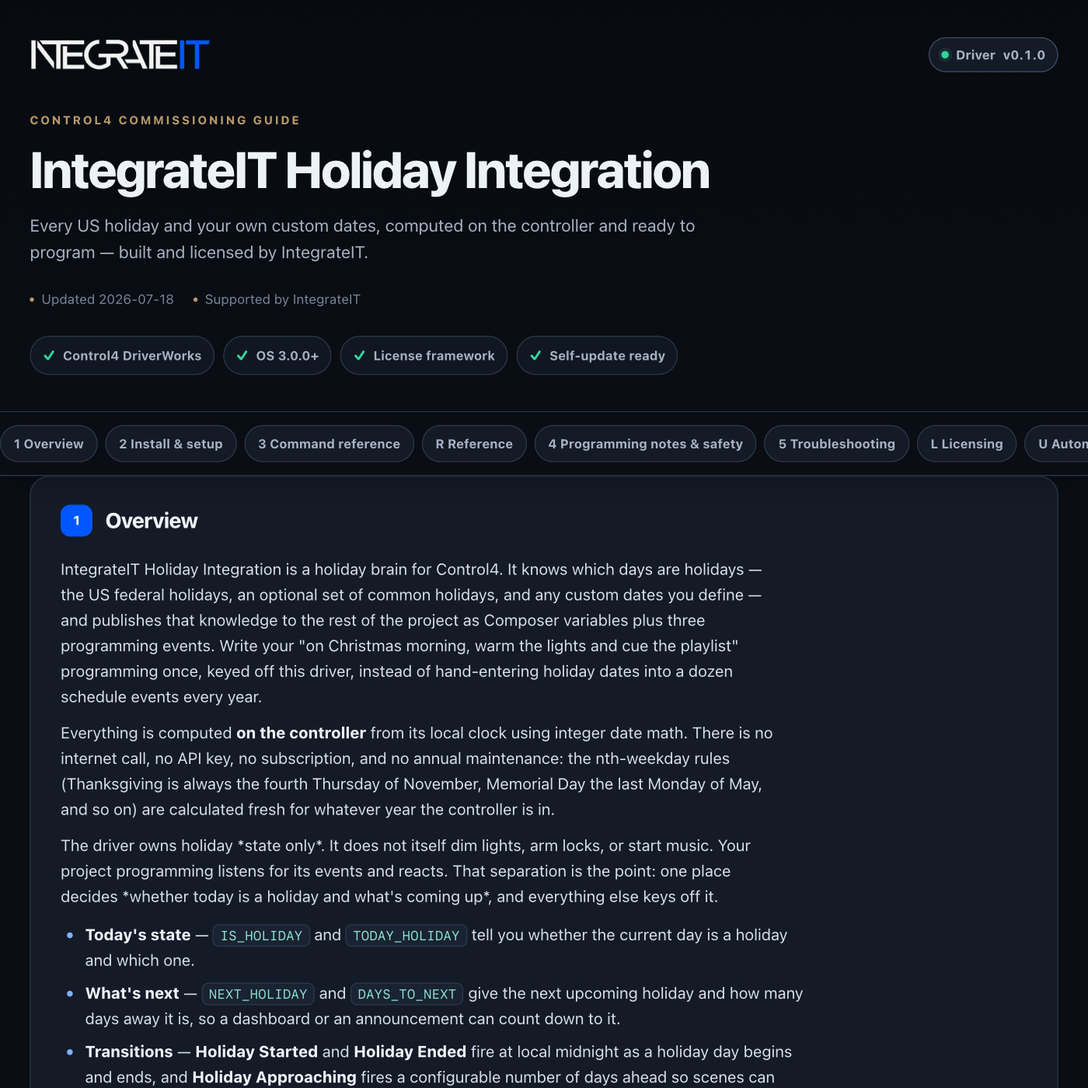
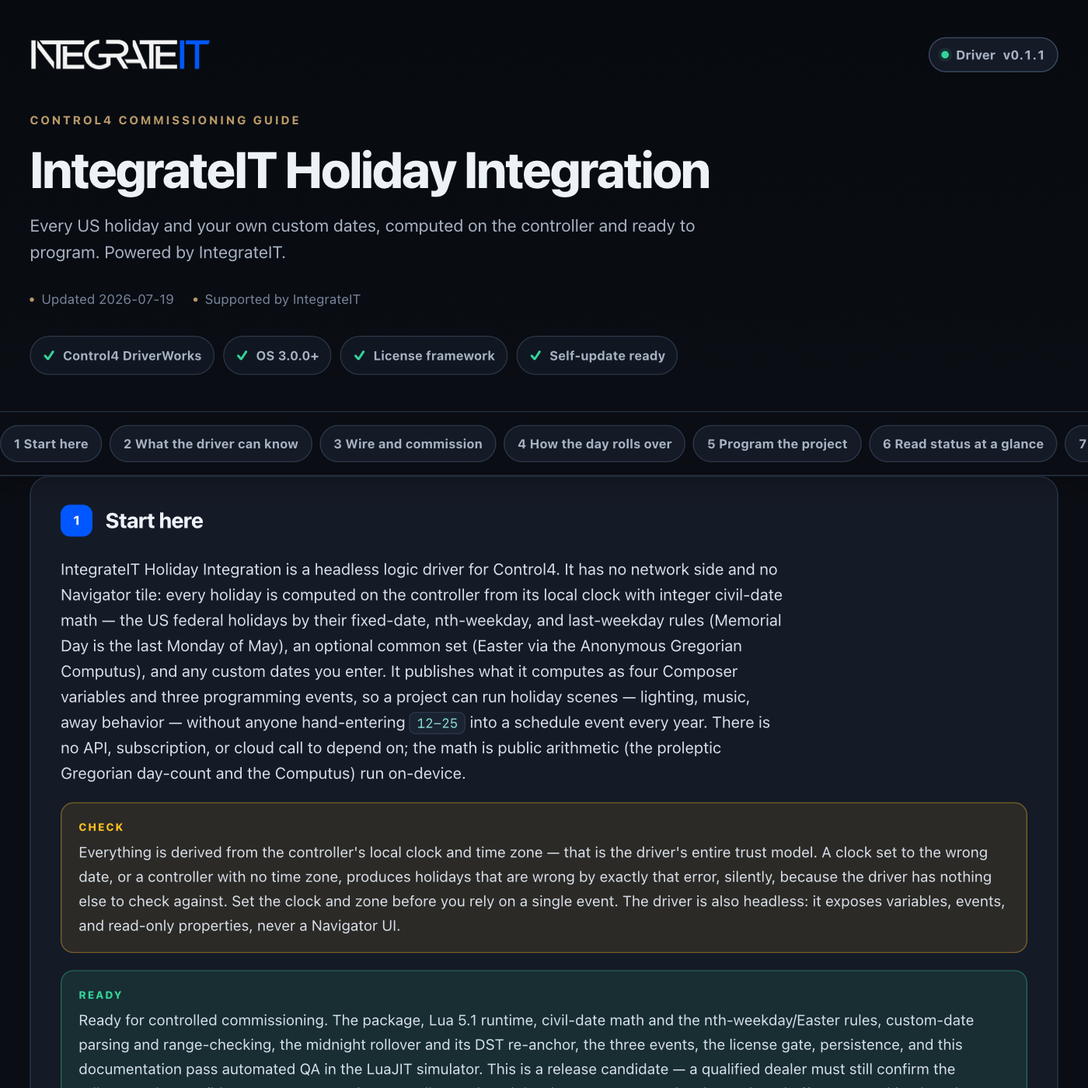
control4: publish driver channel (integrateit_holiday_integration 0.1.2)

diff --git a/control4/integrateit_holiday_integration/documentation.html b/control4/integrateit_holiday_integration/documentation.html
@@ -179,13 +179,13 @@ td code{white-space:normal}
     <div class="wrap">
       <div class="brandbar">
[1 lines of base64/hex data omitted]
-        <span class="version"><span class="word">Driver</span> v0.1.1</span>
+        <span class="version"><span class="word">Driver</span> v0.1.2</span>
       </div>
       <p class="eyebrow">Control4 commissioning guide</p>
       <h1>IntegrateIT Holiday Integration</h1>
-      <p class="sub">Every US holiday and your own custom dates, computed on the controller and ready to program — built and licensed by IntegrateIT.</p>
+      <p class="sub">Every US holiday and your own custom dates, computed on the controller and ready to program. Powered by IntegrateIT.</p>
       <div class="meta">
-        <span>Updated 2026-07-19</span>
+        <span>Updated 2026-07-26</span>
         <span>Supported by IntegrateIT</span>
       </div>
       <div class="readiness" aria-label="Driver capabilities">
@@ -198,61 +198,122 @@ td code{white-space:normal}
   </header>
 
   <div class="toc-wrap">
-    <nav class="toc wrap" aria-label="Documentation sections"><a href="#overview">1 Overview</a><a href="#install">2 Install &amp; setup</a><a href="#commands">3 Command reference</a><a href="#reference">R Reference</a><a href="#safety">4 Programming notes &amp; safety</a><a href="#troubleshooting">5 Troubleshooting</a><a href="#licensing">L Licensing</a><a href="#updates">U Automatic updates</a><a href="#changelog">V Version history</a></nav>
+    <nav class="toc wrap" aria-label="Documentation sections"><a href="#overview">1 Start here</a><a href="#knows">2 What the driver can know</a><a href="#setup">3 Wire and commission</a><a href="#rollover">4 How the day rolls over</a><a href="#programming">5 Program the project</a><a href="#status">6 Read status at a glance</a><a href="#troubleshooting">7 Troubleshoot methodically</a><a href="#trust">8 Ownership, privacy, and licensing</a><a href="#reference">R Reference</a><a href="#licensing">L Licensing</a><a href="#updates">U Automatic updates</a><a href="#changelog">V Version history</a></nav>
   </div>
 
   <main class="wrap">
     <section class="card" id="overview" data-card="overview">
-  <h2><span class="n">1</span> Overview</h2>
-  <p>IntegrateIT Holiday Integration is a holiday brain for Control4. It knows which days are holidays — the US federal holidays, an optional set of common holidays, and any custom dates you define — and publishes that knowledge to the rest of the project as Composer variables plus three programming events. Write your "on Christmas morning, warm the lights and cue the playlist" programming once, keyed off this driver, instead of hand-entering holiday dates into a dozen schedule events every year.</p>
-  <p>Everything is computed <b>on the controller</b> from its local clock using integer date math. There is no internet call, no API key, no subscription, and no annual maintenance: the nth-weekday rules (Thanksgiving is always the fourth Thursday of November, Memorial Day the last Monday of May, and so on) are calculated fresh for whatever year the controller is in.</p>
-  <p>The driver owns holiday *state only*. It does not itself dim lights, arm locks, or start music. Your project programming listens for its events and reacts. That separation is the point: one place decides *whether today is a holiday and what's coming up*, and everything else keys off it.</p>
+  <h2><span class="n">1</span> Start here</h2>
+  <p>IntegrateIT Holiday Integration is a headless logic driver for Control4. It has no network side and no Navigator tile: every holiday is computed on the controller from its local clock with integer civil-date math — the US federal holidays by their fixed-date, nth-weekday, and last-weekday rules (Memorial Day is the last Monday of May), an optional common set (Easter via the Anonymous Gregorian Computus), and any custom dates you enter. It publishes what it computes as four Composer variables and three programming events, so a project can run holiday scenes — lighting, music, away behavior — without anyone hand-entering <code>12-25</code> into a schedule event every year. There is no API, subscription, or cloud call to depend on; the math is public arithmetic (the proleptic Gregorian day-count and the Computus) run on-device.</p>
+  <div class="note warn">Everything is derived from the controller's local clock and time zone — that is the driver's entire trust model. A clock set to the wrong date, or a controller with no time zone, produces holidays that are wrong by exactly that error, silently, because the driver has nothing else to check against. Set the clock and zone before you rely on a single event. The driver is also headless: it exposes variables, events, and read-only properties, never a Navigator UI.</div>
+  <div class="note good">Ready for controlled commissioning. The package, Lua 5.1 runtime, civil-date math and the nth-weekday/Easter rules, custom-date parsing and range-checking, the midnight rollover and its DST re-anchor, the three events, the license gate, persistence, and this documentation pass automated QA in the LuaJIT simulator. This is a release candidate — a qualified dealer must still confirm the rollover and event firing on a representative controller. No bench hardware acceptance has been signed off yet, so nothing here is bench-tested.</div>
+  <p><b>What you get</b></p>
   <ul>
-    <li><b>Today's state</b> — <code>IS_HOLIDAY</code> and <code>TODAY_HOLIDAY</code> tell you whether the current day is a holiday and which one.</li>
-    <li><b>What's next</b> — <code>NEXT_HOLIDAY</code> and <code>DAYS_TO_NEXT</code> give the next upcoming holiday and how many days away it is, so a dashboard or an announcement can count down to it.</li>
-    <li><b>Transitions</b> — <b>Holiday Started</b> and <b>Holiday Ended</b> fire at local midnight as a holiday day begins and ends, and <b>Holiday Approaching</b> fires a configurable number of days ahead so scenes can pre-stage.</li>
+    <li>US federal holidays computed on-device by their real rules — New Year's Day, Martin Luther King Jr. Day, Presidents' Day, Memorial Day, Juneteenth, Independence Day, Labor Day, Columbus Day, Veterans Day, Thanksgiving Day, and Christmas Day</li>
+    <li>An optional common set that adds Valentine's Day, St. Patrick's Day, Easter Sunday, Halloween, Christmas Eve, and New Year's Eve</li>
+    <li>Dealer custom dates: recurring <code>MM-DD</code> or one-off <code>YYYY-MM-DD</code> with your own labels; a custom label wins a same-day collision with a built-in</li>
+    <li><code>IS_HOLIDAY</code>, <code>TODAY_HOLIDAY</code>, <code>NEXT_HOLIDAY</code>, and <code>DAYS_TO_NEXT</code> variables for programming and dashboards</li>
+    <li><b>Holiday Started</b> and <b>Holiday Ended</b> events at local midnight as each holiday day begins and ends</li>
+    <li><b>Holiday Approaching</b> a configurable number of days ahead so scenes can pre-stage</li>
+    <li>A DST-safe midnight rollover that re-reads the clock on every fire, and MAC-locked IntegrateIT licensing</li>
   </ul>
-  <p>This driver covers US civil/federal and common holidays plus your own dates. For the Jewish calendar (Shabbat, Yom Tov, candle lighting), use the companion <b>IntegrateIT Hebcal</b> driver instead.</p>
 </section>
 
-<section class="card" id="install" data-card="install">
-  <h2><span class="n">2</span> Install &amp; setup</h2>
+<section class="card" id="knows" data-card="knows">
+  <h2><span class="n">2</span> What the driver can know</h2>
+  <p>This driver never asserts a holiday it cannot derive. Its only input is the controller's local clock; from that one civil date it computes every holiday arithmetically, so the same calendar day maps to the same result on every controller. That determinism also fixes the boundary of what it can and cannot know:</p>
+  <ul>
+    <li><b>The clock is the only source of truth.</b> There is no calendar feed to cross-check. If the controller's date or time zone is wrong, "today is a holiday" is wrong by the same amount and nothing in the driver can tell — it has nothing else to compare against.</li>
+    <li><b>Scope is US civil.</b> It covers the US federal set, the optional common set, and your custom dates — nothing else. It is not a religious or international calendar. For the Jewish calendar (Shabbat, Yom Tov, candle lighting) use the companion <b>IntegrateIT Hebcal</b> driver instead.</li>
+    <li><b>Your dates win.</b> Custom dates are registered before the built-ins, so a custom label takes a day a built-in also lands on. A recurring <code>MM-DD</code> is validated against each year's real month length: <code>02-29</code> appears only in leap years, and an impossible date like <code>02-30</code> or <code>13-45</code> is rejected and logged — never silently normalized into a phantom day. Turn on <b>Debug Mode → Print</b> to see the skips.</li>
+    <li><b>State is re-derived, never restored from disk.</b> A diagnostic snapshot of the last computed day is written to persistence, but on every boot the driver re-reads the wall clock and rebuilds the whole set from scratch. It never trusts the saved value for "today" — anything claiming a holiday after a reboot re-earned it from the clock.</li>
+  </ul>
+</section>
+
+<section class="card" id="setup" data-card="setup">
+  <h2><span class="n">3</span> Wire and commission</h2>
   <ol class="steps">
-    <li>Add <b>IntegrateIT Holiday Integration</b> to the project (a Comm/room the programming can reach). It has no Navigator UI of its own.</li>
-    <li>Confirm the controller's <b>date, time, and time zone</b> are correct. Every holiday is derived from the local clock, so a wrong clock yields wrong holidays.</li>
-    <li>In <b>Properties</b>, choose a <b>Holiday Set</b>: - <b>US Federal</b> — New Year's Day, Martin Luther King Jr. Day, Presidents' Day, Memorial Day, Juneteenth, Independence Day, Labor Day, Columbus Day, Veterans Day, Thanksgiving Day, and Christmas Day. - <b>US Federal + Common</b> (default) — everything above plus Valentine's Day, St. Patrick's Day, Easter Sunday, Halloween, Christmas Eve, and New Year's Eve.</li>
-    <li>(Optional) Add <b>Custom Dates</b> as a comma-separated list. Each entry is <code>date:Label</code>: - <code>MM-DD:Label</code> repeats every year — e.g. <code>04-22:Company Anniversary</code>. - <code>YYYY-MM-DD:Label</code> is one specific date — e.g. <code>2026-09-05:Open House</code>. - A custom label wins if it falls on the same day as a built-in holiday.</li>
-    <li>Set <b>Approach Notice (days)</b> — how many days before a holiday the <b>Holiday Approaching</b> event fires (0–30, default 3). Set it to <code>0</code> to disable that event.</li>
-    <li>Optionally enter a <b>License Key</b> (see Licensing) — the driver runs in Lenient mode without one.</li>
+    <li>Add <b>IntegrateIT Holiday Integration</b> to the project (any room or Comm the programming can reach). It has no Navigator UI of its own.</li>
+    <li>Confirm the controller's <b>date, time, and time zone</b> are correct before anything else — every holiday is derived from them.</li>
+    <li>In <b>Properties</b>, choose a <b>Holiday Set</b>: <b>US Federal</b> (the eleven federal holidays) or <b>US Federal + Common</b> (default — adds Valentine's Day, St. Patrick's Day, Easter Sunday, Halloween, Christmas Eve, and New Year's Eve).</li>
+    <li>(Optional) Enter <b>Custom Dates</b> as a comma-separated list of <code>date:Label</code> entries — <code>MM-DD:Label</code> repeats every year (<code>04-22:Company Anniversary</code>), <code>YYYY-MM-DD:Label</code> is one specific date (<code>2026-09-05:Open House</code>).</li>
+    <li>Set <b>Approach Notice (days)</b> (0–30, default 3) — how many days ahead <b>Holiday Approaching</b> fires at local midnight. Set it to <code>0</code> to disable that event.</li>
+    <li>Leave <b>License Enforcement</b> at Lenient to commission without a key, or enter a <b>License Key</b> and switch to Strict for production (see Ownership below).</li>
+    <li>Prove it: run the <b>Print Holidays</b> action and read the Lua output window — the active set and the upcoming dates print with their weekdays. Confirm the <b>Next Holiday</b> property names the right upcoming holiday. To see a same-day hit, add a custom date on today and watch <code>IS_HOLIDAY</code> flip to <code>1</code> and <code>TODAY_HOLIDAY</code> take the label.</li>
   </ol>
 </section>
 
-<section class="card" id="commands" data-card="commands">
-  <h2><span class="n">3</span> Command reference</h2>
-  <p>Both of the following are Composer <b>Actions</b>. Each is gated by the license: under Strict enforcement without a valid key they are silently ignored. Neither is destructive — they only recompute and report.</p>
-  <table>
-    <tr><th>Action</th><th>Command</th><th>Effect</th></tr>
-    <tr><td><code>Recompute</code></td><td><code>RECOMPUTE</code></td><td>Re-read the controller clock, rebuild the holiday set, refresh every variable and property, and realign the midnight rollover — all now. It re-anchors "today" from the current clock, so it is the correct remedy after you fix a wrong date/time/zone, and it is handy after editing Custom Dates.</td></tr>
-    <tr><td><code>Print Holidays</code></td><td><code>PRINT_HOLIDAYS</code></td><td>Print the active holiday set and the upcoming holidays (with dates and weekdays) to the Lua output window.</td></tr>
-  </table>
-  <p><b>Events</b> to program against:</p>
+<section class="card" id="rollover" data-card="rollover">
+  <h2><span class="n">4</span> How the day rolls over</h2>
+  <p>The driver reads the wall clock once at boot to learn today's civil day-number and the delay to the next local midnight, then lets a single one-shot timer do the waiting — it never polls in a loop asking whether midnight has arrived yet. When that timer fires it advances its internal day by one, re-derives every surface, fires the day-transition events, and re-reads the clock to schedule the following midnight.</p>
   <ul>
-    <li><b>Holiday Started</b> (id 12) — fires at local midnight as a holiday day begins. Read <code>TODAY_HOLIDAY</code> inside the event to branch (e.g. "if today is Independence Day, run the Fourth of July scene").</li>
-    <li><b>Holiday Ended</b> (id 13) — fires at local midnight as a holiday day ends, so you can undo a holiday scene the next morning.</li>
-    <li><b>Holiday Approaching</b> (id 14) — fires at local midnight when the <b>next (nearest) upcoming holiday</b> is exactly <b>Approach Notice (days)</b> away. It tracks only the nearest holiday: if a closer holiday sits inside the notice window, a farther holiday landing on the same window boundary is not separately announced. Use it to pre-stage: order flowers, warm a guest room, post a countdown.</li>
+    <li><b>Boot publishes, it does not fire.</b> The first derivation at boot sets the variables and properties but fires no <b>Holiday Started / Ended / Approaching</b> — those belong to real midnight rollovers, so a controller reboot never replays a day's events.</li>
+    <li><b>Rollovers self-correct across DST.</b> Because the next-midnight delay is recomputed from the clock on every fire, a 23-hour or 25-hour civil day at a DST boundary lands the rollover on real local midnight instead of drifting an hour on a flat 24-hour re-arm.</li>
+    <li><b>Once per day.</b> Each holiday is evaluated at its local midnight, not re-checked within the day. A single-day holiday fires <b>Holiday Started</b> at its own midnight and <b>Holiday Ended</b> at the next.</li>
+    <li><b>Editing a property re-derives silently.</b> Changing <b>Holiday Set</b>, <b>Custom Dates</b>, or <b>Approach Notice (days)</b> recomputes the variables and properties immediately but fires no transition events. <b>Recompute</b> goes further — it re-reads the clock and re-anchors "today," which is the correct remedy after you fix a wrong date, time, or zone.</li>
   </ul>
-  <p><b>Variables</b> exposed for programming and dashboards:</p>
+</section>
+
+<section class="card" id="programming" data-card="programming">
+  <h2><span class="n">5</span> Program the project</h2>
+  <table>
+    <tr><th>Event</th><th>id</th><th>Fires</th></tr>
+    <tr><td><b>Holiday Started</b></td><td>12</td><td>at local midnight as a holiday day begins</td></tr>
+    <tr><td><b>Holiday Ended</b></td><td>13</td><td>at local midnight as a holiday day ends</td></tr>
+    <tr><td><b>Holiday Approaching</b></td><td>14</td><td>at local midnight when the nearest upcoming holiday is exactly <b>Approach Notice (days)</b> away</td></tr>
+  </table>
   <table>
     <tr><th>Variable</th><th>Type</th><th>Meaning</th></tr>
-    <tr><td><code>IS_HOLIDAY</code></td><td>BOOL</td><td>1 when today is a holiday, 0 otherwise.</td></tr>
-    <tr><td><code>TODAY_HOLIDAY</code></td><td>STRING</td><td>Today's holiday name, or <code>None</code>.</td></tr>
-    <tr><td><code>NEXT_HOLIDAY</code></td><td>STRING</td><td>The next upcoming holiday's name, or <code>None</code>.</td></tr>
-    <tr><td><code>DAYS_TO_NEXT</code></td><td>NUMBER</td><td>Whole days from today until the next holiday.</td></tr>
+    <tr><td><code>IS_HOLIDAY</code></td><td>BOOL</td><td><code>1</code> when today is a holiday, <code>0</code> otherwise</td></tr>
+    <tr><td><code>TODAY_HOLIDAY</code></td><td>STRING</td><td>today's holiday name, or <code>None</code></td></tr>
+    <tr><td><code>NEXT_HOLIDAY</code></td><td>STRING</td><td>the next upcoming holiday's name, or <code>None</code></td></tr>
+    <tr><td><code>DAYS_TO_NEXT</code></td><td>NUMBER</td><td>whole days from today until the next holiday</td></tr>
   </table>
-  <p><code>Today Is Holiday</code> and <code>Next Holiday</code> are also published as read-only properties so you can see the live values in Composer.</p>
+  <ul>
+    <li><b>One program for every holiday.</b> In <b>Holiday Started</b>, read <code>TODAY_HOLIDAY</code> and branch on it — a single event covers all of them instead of a hand-dated schedule event per holiday. Undo the scene the next morning from <b>Holiday Ended</b>.</li>
+    <li><b>Pre-stage with lead time.</b> Set <b>Approach Notice (days)</b> to <code>5</code> and use <b>Holiday Approaching</b> to order flowers or warm a guest room ahead of the day.</li>
+    <li><b>Count down on a dashboard.</b> Show <code>NEXT_HOLIDAY</code> with <code>DAYS_TO_NEXT</code>, or the read-only <b>Next Holiday</b> property, so a touch screen can announce what is coming.</li>
+  </ul>
+  <div class="note"><b>Holiday Approaching</b> tracks only the nearest upcoming holiday. If a closer holiday sits inside the notice window, a farther one landing on the same boundary is not separately announced.</div>
+</section>
+
+<section class="card" id="status" data-card="status">
+  <h2><span class="n">6</span> Read status at a glance</h2>
+  <table>
+    <tr><th>Surface</th><th>Healthy value</th><th>What it means / what to do otherwise</th></tr>
+    <tr><td><code>Today Is Holiday</code></td><td>the holiday name, or <code>No</code></td><td>read-only mirror of today's state</td></tr>
+    <tr><td><code>Next Holiday</code></td><td><code>&lt;name&gt; — &lt;date&gt; (in N days)</code>, or <code>Unknown</code></td><td>the upcoming holiday and when; <code>Unknown</code> only before the first derivation</td></tr>
+    <tr><td><code>IS_HOLIDAY</code> / <code>TODAY_HOLIDAY</code></td><td>agree with <code>Today Is Holiday</code></td><td>the automation-safe pair to branch on</td></tr>
+    <tr><td><code>NEXT_HOLIDAY</code> / <code>DAYS_TO_NEXT</code></td><td>the next holiday and its countdown</td><td>drives dashboards and pre-staging</td></tr>
+    <tr><td><code>License Status</code></td><td>Activated, or Lenient during commissioning</td><td>enter a key before selecting Strict</td></tr>
+  </table>
+  <p>The device <b>Status</b> line reads <code>Today is &lt;holiday&gt;</code>, <code>Next: &lt;holiday&gt; in N days</code>, or <code>No holidays in range</code>. Run the <b>Print Holidays</b> action to dump the active set and the upcoming dates (with weekdays) to the Lua output window; it prints the driver version and the IntegrateIT identity and never prints the license key.</p>
+</section>
+
+<section class="card" id="troubleshooting" data-card="troubleshooting">
+  <h2><span class="n">7</span> Troubleshoot methodically</h2>
+  <table>
+    <tr><th>Symptom</th><th>Likely cause</th><th>Fix</th></tr>
+    <tr><td>Nothing ever reports a holiday; variables stay <code>None</code></td><td>The clock is far off, or the set has no near matches</td><td>Run <b>Print Holidays</b>; if the printed "Today" date is wrong, correct the controller date/time/zone and fire <b>Recompute</b></td></tr>
+    <tr><td>Holidays land on the wrong day</td><td>Controller clock or time zone is wrong</td><td>Correct the date/time/zone, then fire <b>Recompute</b> to re-anchor today</td></tr>
+    <tr><td>A custom date never triggers</td><td>Malformed or out-of-range <b>Custom Dates</b> entry</td><td>Use <code>MM-DD:Label</code> or <code>YYYY-MM-DD:Label</code>, comma-separated; turn on <b>Debug Mode → Print</b> and re-check — skips are logged; confirm with <b>Print Holidays</b></td></tr>
+    <tr><td><b>Holiday Approaching</b> never fires</td><td><b>Approach Notice (days)</b> is <code>0</code>, or a nearer holiday owns the window</td><td>Set it to <code>1</code>–<code>30</code>; remember only the nearest upcoming holiday is tracked</td></tr>
+    <tr><td>Easter or Valentine's missing</td><td><b>Holiday Set</b> is US Federal</td><td>Switch to <b>US Federal + Common</b></td></tr>
+    <tr><td><b>Recompute</b> / <b>Print Holidays</b> do nothing</td><td>Strict enforcement with no valid key</td><td>Check <code>License Status</code>; Lenient keeps them enabled — the holiday variables and events publish either way</td></tr>
+    <tr><td>Events replay after a reboot</td><td>They do not</td><td>Boot publishes state but fires no transition events by design</td></tr>
+  </table>
+  <div class="note">Turn on <b>Debug Mode → Print</b> to watch every derivation in the Lua output window, and run <b>Print Holidays</b> to dump the parsed set and the upcoming dates.</div>
+  <p>If holidays still compute wrong after the clock and zone are confirmed correct and <b>Recompute</b> has run, capture a <b>Print Holidays</b> dump with <b>Debug Mode → Print</b> on and contact IntegrateIT support at support@integrateit.tech · (913) 804-7575.</p>
+</section>
+
+<section class="card" id="trust" data-card="trust">
+  <h2><span class="n">8</span> Ownership, privacy, and licensing</h2>
+  <p>This package is an original IntegrateIT implementation — an on-device holiday engine built on standard civil-date arithmetic (the proleptic Gregorian day-count and the Anonymous Gregorian Computus for Easter, both public algorithms). It bundles no other vendor's runtime, source code, brand assets, trial system, or license. Driver engineering, Control4 integration, documentation, QA, licensing, updates, and support are provided by IntegrateIT.</p>
+  <p>The holiday engine sends nothing anywhere: it reads only the controller's local clock and writes only Composer variables, events, and its own properties — no network call, no calendar feed, and no customer data leaves the controller. The shared IntegrateIT license and update services use the controller identity, driver slug, version, configured license key, and update channel as documented in the reference below; the license key is never logged or printed.</p>
+  <p>Lenient mode (the default) allows commissioning without an activated key and keeps <code>License Status</code> visible. Strict mode blocks the two manual Actions — <b>Recompute</b> and <b>Print Holidays</b> — until the Ops Portal has minted and validated a MAC-locked key for that controller; the holiday variables and events keep publishing regardless, because deriving the calendar is not a licensed operation. Installing this package does not itself mint or activate a controller license.</p>
 <section class="card" id="reference" data-card="reference">
   <h2><span class="n">R</span> Reference</h2>
-  <p>Generated from the driver manifest at build time — always matches this build (v0.1.1).</p>
+  <p>Generated from the driver manifest at build time — always matches this build (v0.1.2).</p>
   <h3>Properties</h3>
   <table>
     <tr><th>Property</th><th>Type</th><th>Default</th><th>Description</th></tr>
@@ -296,31 +357,6 @@ td code{white-space:normal}
     <tr><td>1002</td><td>License Problem <span class="pill blue">shared</span></td><td>License key invalid, revoked, or bound to a different controller</td></tr>
   </table>
 </section>
-</section>
-
-<section class="card" id="safety" data-card="safety">
-  <h2><span class="n">4</span> Programming notes &amp; safety</h2>
-  <p>This driver is a state holder, not an actuator — it never moves a physical device on its own, so there is no hardware-safety hazard in commissioning it. The discipline that matters here is <b>programming and clock hygiene</b>:</p>
-  <ul>
-    <li><b>Key scenes off the events, not off hand-entered dates.</b> Let this driver be the single source of holiday truth; a schedule event that hard-codes <code>12-25</code> will drift and forget leap-year and nth-weekday shifts.</li>
-    <li><b>Decide Started vs. Approaching deliberately.</b> *Holiday Started* fires at midnight the holiday *begins* — good for same-day scenes. *Holiday Approaching* fires ahead of time — good for anything that needs lead time. Many projects use both.</li>
-    <li><b>Mind the controller clock and time zone.</b> All holiday math is local. If the controller's clock is wrong, or its time zone is unset, the holidays will be off by the same amount. After any clock change, fire <b>Recompute</b>.</li>
-    <li><b>Editing Custom Dates is a commissioning action.</b> Changing the set re-derives the surfaces immediately but does *not* fire transition events (those belong to real midnight rollovers). Edit when you can confirm the resulting state, then run <b>Print Holidays</b> to review.</li>
-    <li><b>The count is once per day.</b> The driver evaluates at each local midnight; it does not re-fire within a day. A holiday that lasts a single calendar day fires *Holiday Started* at its midnight and *Holiday Ended* at the following midnight.</li>
-  </ul>
-</section>
-
-<section class="card" id="troubleshooting" data-card="troubleshooting">
-  <h2><span class="n">5</span> Troubleshooting</h2>
-  <table>
-    <tr><th>Symptom</th><th>Likely cause</th><th>Fix</th></tr>
-    <tr><td>Holidays are on the wrong day</td><td>Controller clock or time zone is wrong</td><td>Correct the controller date/time/zone, then fire <code>Recompute</code>.</td></tr>
-    <tr><td>A custom date never triggers</td><td>Malformed <code>Custom Dates</code> entry</td><td>Use <code>MM-DD:Label</code> or <code>YYYY-MM-DD:Label</code>, comma-separated; check <code>Print Holidays</code> to confirm it parsed.</td></tr>
-    <tr><td>Approaching event never fires</td><td><code>Approach Notice (days)</code> is 0</td><td>Set it to the number of days of lead time you want (1–30).</td></tr>
-    <tr><td>Actions do nothing</td><td>Strict enforcement + unlicensed</td><td>Check <code>License Status</code>; Lenient mode keeps control enabled without a key.</td></tr>
-    <tr><td>Easter / Valentine's missing</td><td><code>Holiday Set</code> is US Federal</td><td>Switch to <code>US Federal + Common</code> to include the common holidays.</td></tr>
-  </table>
-  <div class="note">Turn on <code>Debug Mode → Print</code> to watch every call in the Lua output window, and run <code>Print Holidays</code> to dump the parsed set and the upcoming dates.</div>
 </section>
 <section class="card" id="licensing" data-card="licensing">
   <h2><span class="n">L</span> Licensing</h2>
@@ -369,7 +405,9 @@ td code{white-space:normal}
     <section class="card" id="changelog" data-card="changelog">
   <h2><span class="n">V</span> Version history</h2>
   <div class="chg">
-    <div class="rel"><b>v0.1.1</b> <span class="pill green">current</span><span class="d">2026-07-19</span>
+    <div class="rel"><b>v0.1.2</b> <span class="pill green">current</span><span class="d">2026-07-26</span>
+      <ul><li>Documentation rebuilt to the IntegrateIT commissioning-guide standard: uniform sections, honest contracts, verified claim-by-claim against the code.</li></ul></div>
+    <div class="rel"><b>v0.1.1</b><span class="d">2026-07-19</span>
       <ul><li>Hardware-test-worthy polish: correctness, edge-case, timer-hygiene and hardware-readiness fixes with a regression test added per fix</li><li>Shared runtime: a transient license-server error no longer de-licenses a paying controller; repeating-timer callbacks are crash-guarded</li></ul></div>
     <div class="rel"><b>v0.1.0</b><span class="d">2026-07-18</span>
       <ul><li>Initial scaffold (template: blank).</li></ul></div>

diff --git a/control4/integrateit_holiday_integration/CHANGELOG.md b/control4/integrateit_holiday_integration/CHANGELOG.md
@@ -1,5 +1,8 @@
 # Changelog — IntegrateIT Holiday Integration
 
+## [0.1.2] - 2026-07-26
+- Documentation rebuilt to the IntegrateIT commissioning-guide standard: uniform sections, honest contracts, verified claim-by-claim against the code.
+
 ## [0.1.1] - 2026-07-19
 - Hardware-test-worthy polish: correctness, edge-case, timer-hygiene and hardware-readiness fixes with a regression test added per fix
 - Shared runtime: a transient license-server error no longer de-licenses a paying controller; repeating-timer callbacks are crash-guarded
